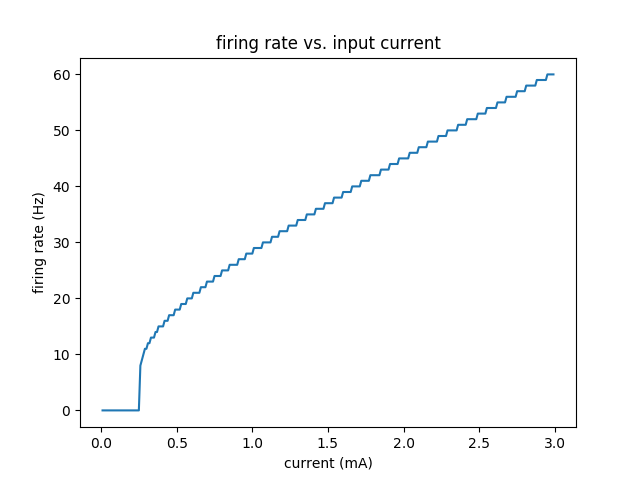
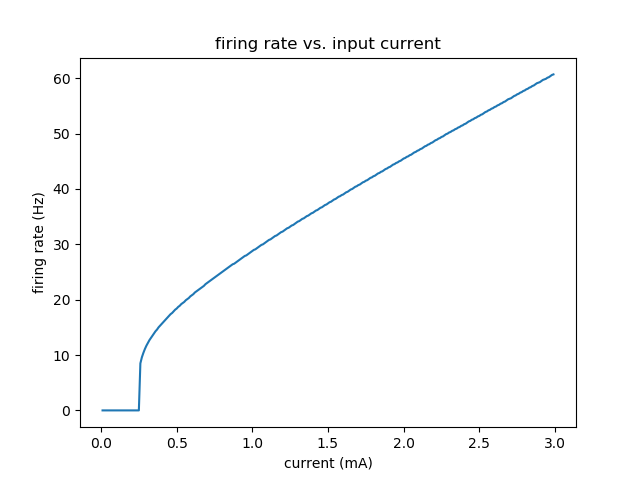
added refractory period for LIF model

diff --git a/code/hw1.py b/code/hw1.py
@@ -4,7 +4,8 @@ import matplotlib.pyplot as plt
 class LIF(object):
     #leaky integrate-and-fire model
     #C_m \frac{dV}{dt} = I(t) - frac{V_m (t)}{R_m}
-    def __init__(self, capitance = 1, resistance = 20, vRest = -65, vThreshold = 5, dt = 0.01, leaky = True):
+    def __init__(self, capitance = 1, resistance = 20, vRest = -65, vThreshold
+                 = 5, dt = 0.01, leaky = True, tRef = 0):
         #float capitance: C_m
         #float resistance: R_m
         #float vRest: rest voltage V_r
@@ -18,9 +19,10 @@ class LIF(object):
         self.vRest = vRest
         self.dt = dt
         self.leakyFactor = 1 if leaky else 0
+        self.tRef = tRef
         return
 
-    def _update(self, tempCurrent, tempVoltage):
+    def _update(self, tempCurrent, tempVoltage, ref_mask):
         #IN
         #np.ndarray tempCurrent, dtype = np.float64, shape = (1, n): n different input current
         #np.ndarray tempVoltage, dtype = np.float64, shape = (1, n): n different membrance potential
@@ -30,7 +32,7 @@ class LIF(object):
 
         #dV = (I(t) - frac{v_m (t)}{R_m}) * dt / C_m
         dV = (tempCurrent - self.leakyFactor * tempVoltage / self.resistance) * self.dt / self.capitance
-        tempVoltage = tempVoltage + dV
+        tempVoltage[:, ref_mask] = tempVoltage[:, ref_mask] + dV[:, ref_mask]
 
         #get spike and reset
         spike = tempVoltage >= self.vThreshold
@@ -50,9 +52,14 @@ class LIF(object):
         #init v
         tempVoltage = np.full((1, self.simulationNum), self.vRest, dtype = np.float64)
         #loop
+        ref_mask = np.ones((self.simulationNum,), dtype=np.bool)
         for i in range(self.stepNum):
-            self.voltage[i], self.spike[i] = self._update(current[i], tempVoltage)
-            tempVoltage = self.voltage[i]
+            if self.tRef > 0:
+                spiked = np.sum(self.spike[max(0,i-self.tRef):i], axis=0)
+                ref_mask = spiked == 0
+            self.voltage[i], self.spike[i] = self._update(current[i], tempVoltage, ref_mask)
+            tempVoltage = self.voltage[i].reshape((1, self.simulationNum))
+
         return self.voltage, self.spike
 
     def getFiringNum(self):
@@ -457,7 +464,7 @@ def Q1(currentList, timeWindow, capitance, resistance, vRest, vThreshold, dt = 0
     return
 
 def Q2(minCurrent, maxCurrent, currentStepSize, timeWindow, capitance,
-       resistance, vRest, vThreshold, dt = 0.01, leaky = True, fn_save = None):
+       resistance, vRest, vThreshold, dt = 0.01, leaky = True, tRef = 0, fn_save = None):
     #IN
     #float minCurrent: minimum input current
     #float maxCurrent: maximum input current
@@ -482,7 +489,7 @@ def Q2(minCurrent, maxCurrent, currentStepSize, timeWindow, capitance,
         current[:, i] = currentList[i]
 
     #init LIF model
-    lif = LIF(capitance, resistance, vRest, vThreshold, dt, leaky)
+    lif = LIF(capitance, resistance, vRest, vThreshold, dt, leaky, int(tRef/dt))
     #simulate
     lif.simulate(current)
     rate = lif.getFiringNum() / timeWindow * 1000
@@ -822,7 +829,7 @@ if __name__ == '__main__':
     resistance = 20
     vRest = -65
     vThreshold = 5
-    fn_save = 'plot_programming_1.tmp.png'
+    fn_save = 'plot_programming_1.png'
     Q1(currentList, timeWindow, capitance, resistance, vRest, vThreshold,
         dt = 0.01, leaky = True, fn_save = fn_save)
 
@@ -834,9 +841,23 @@ if __name__ == '__main__':
     resistance = 20
     vRest = -65
     vThreshold = 5
-    fn_save = 'plot_programming_2.tmp.png'
+    fn_save = 'plot_programming_2.png'
     Q2(minCurrent, maxCurrent, currentStepSize, timeWindow, capitance,
-       resistance, vRest, vThreshold, dt = 0.01, leaky = True,
+       resistance, vRest, vThreshold, dt = 0.01, leaky = True, tRef = 0,
+       fn_save = fn_save)
+
+    minCurrent = 0.01
+    maxCurrent = 100
+    currentStepSize = 1
+    timeWindow = 1000
+    tRef = 5
+    capitance = 1
+    resistance = 20
+    vRest = -65
+    vThreshold = 5
+    fn_save = 'plot_programming_2_2.png'
+    Q2(minCurrent, maxCurrent, currentStepSize, timeWindow, capitance,
+       resistance, vRest, vThreshold, dt = 0.01, leaky = True, tRef = tRef,
        fn_save = fn_save)
 
     currentList = [4, 5, 6]
